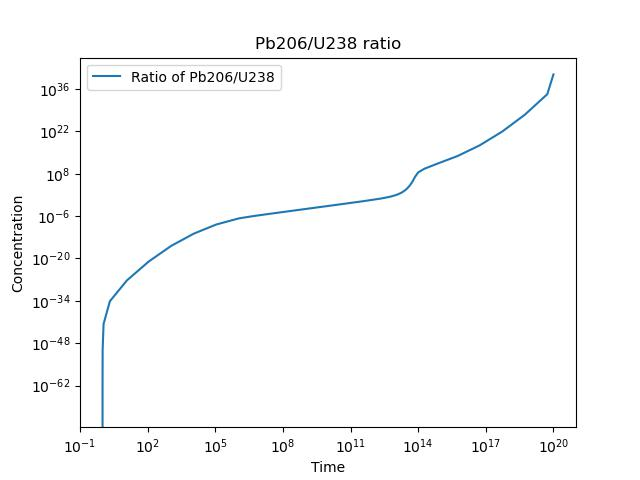
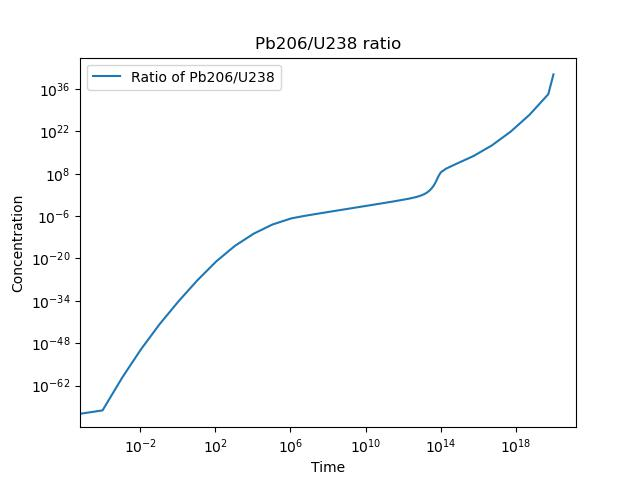
for posterity here is a stupid mistake

diff --git a/Assignment 3/a3q3.py b/Assignment 3/a3q3.py
@@ -1,0 +1,75 @@
+import numpy as np 
+from scipy import integrate
+from matplotlib import pyplot as plt
+
+
+dat = np.loadtxt("dish_zenith.txt").T # Importing raw data
+
+
+# Storing it in separate array
+
+
+# Plotting the initial raw data
+fig = plt.figure()
+ax = fig.add_subplot(111, projection='3d')
+ax.scatter(dat[0], dat[1], dat[2])
+ax.set_xlabel('X-axis')
+ax.set_ylabel('Y-axis')
+ax.set_zlabel('Z-axis')
+plt.savefig("figs/q3_rawdata.jpg")
+#plt.show()
+
+# Our x, y, z data
+xs = dat[0]
+ys = dat[1]
+zs = dat[2]
+
+
+cross = np.zeros([len(xs), len(ys)])
+
+
+
+
+# Defining an array with our 4 different functions so we can iterate through them when making matrix A
+funcs = np.array(
+    [
+        lambda x, y : x**2 + y**2,
+        lambda x, y: x,
+        lambda x, y: y,
+        lambda x, y: 1,
+    ]
+)
+
+
+
+A = np.zeros([len(xs), len(funcs)])
+
+for func in funcs:
+
+    func_data = []
+
+    for i in range(len(xs)):
+        func_data.append([func(xs[i], j) for j in ys])
+
+    A.append(func_data)
+
+A = np.array(A)
+
+
+
+print(np.shape(A.T))
+
+lhs = A.T@A
+rhs = A.T@z
+fitp = np.linalg.inv(lhs)@rhs
+pred=A@fitp
+
+print(fitp)
+
+assert(1==0)
+plt.clf()
+plt.plot(t,x,'*')
+plt.plot(t,pred)
+plt.show()
+print('squared residual is ',np.sum((x-pred)**2))
+

diff --git a/Assignment 3/polyfit.py b/Assignment 3/polyfit.py
@@ -1,0 +1,27 @@
+import numpy as np
+from matplotlib import pyplot as plt
+plt.ion()
+
+
+t=np.linspace(-5,5,101)
+x_true=t**3-0.5*t**2
+x=x_true+10*np.random.randn(len(t))
+
+ord=5
+A=np.zeros([len(t),ord+1])
+for i in range(ord+1):
+    A[:,i]=t**i
+
+print(np.shape(A))
+
+assert(1==0)
+
+lhs=A.T@A
+rhs=A.T@x
+fitp=np.linalg.inv(lhs)@rhs
+pred=A@fitp
+plt.clf()
+plt.plot(t,x,'*')
+plt.plot(t,pred)
+plt.show()
+print('squared residual is ',np.sum((x-pred)**2))

diff --git a/Assignment 3/a3q2.py b/Assignment 3/a3q2.py
@@ -71,7 +71,7 @@ def fun(
     return dydx
 
 y0 = np.insert(np.zeros(len(comp_name)-1), 0, 1)
-x0 = 1
+x0 = 0
 x1 = 1e20
 
 ans_rk4 = integrate.solve_ivp(fun, [x0, x1], y0, method = 'Radau')

diff --git a/Assignment 3/a3_test.py b/Assignment 3/a3_test.py
@@ -1,6 +1,12 @@
 import numpy as np
 
-array = np
+v1 = [0.1, 2, 3,4 ,5 ]
+v2 = [1, 2, 3,4 ,5 ]
 
-for i in range(0, 3):
-    print(i) 
+a = []
+
+a.append(v1)
+
+a.append(v2)
+
+print(a)
